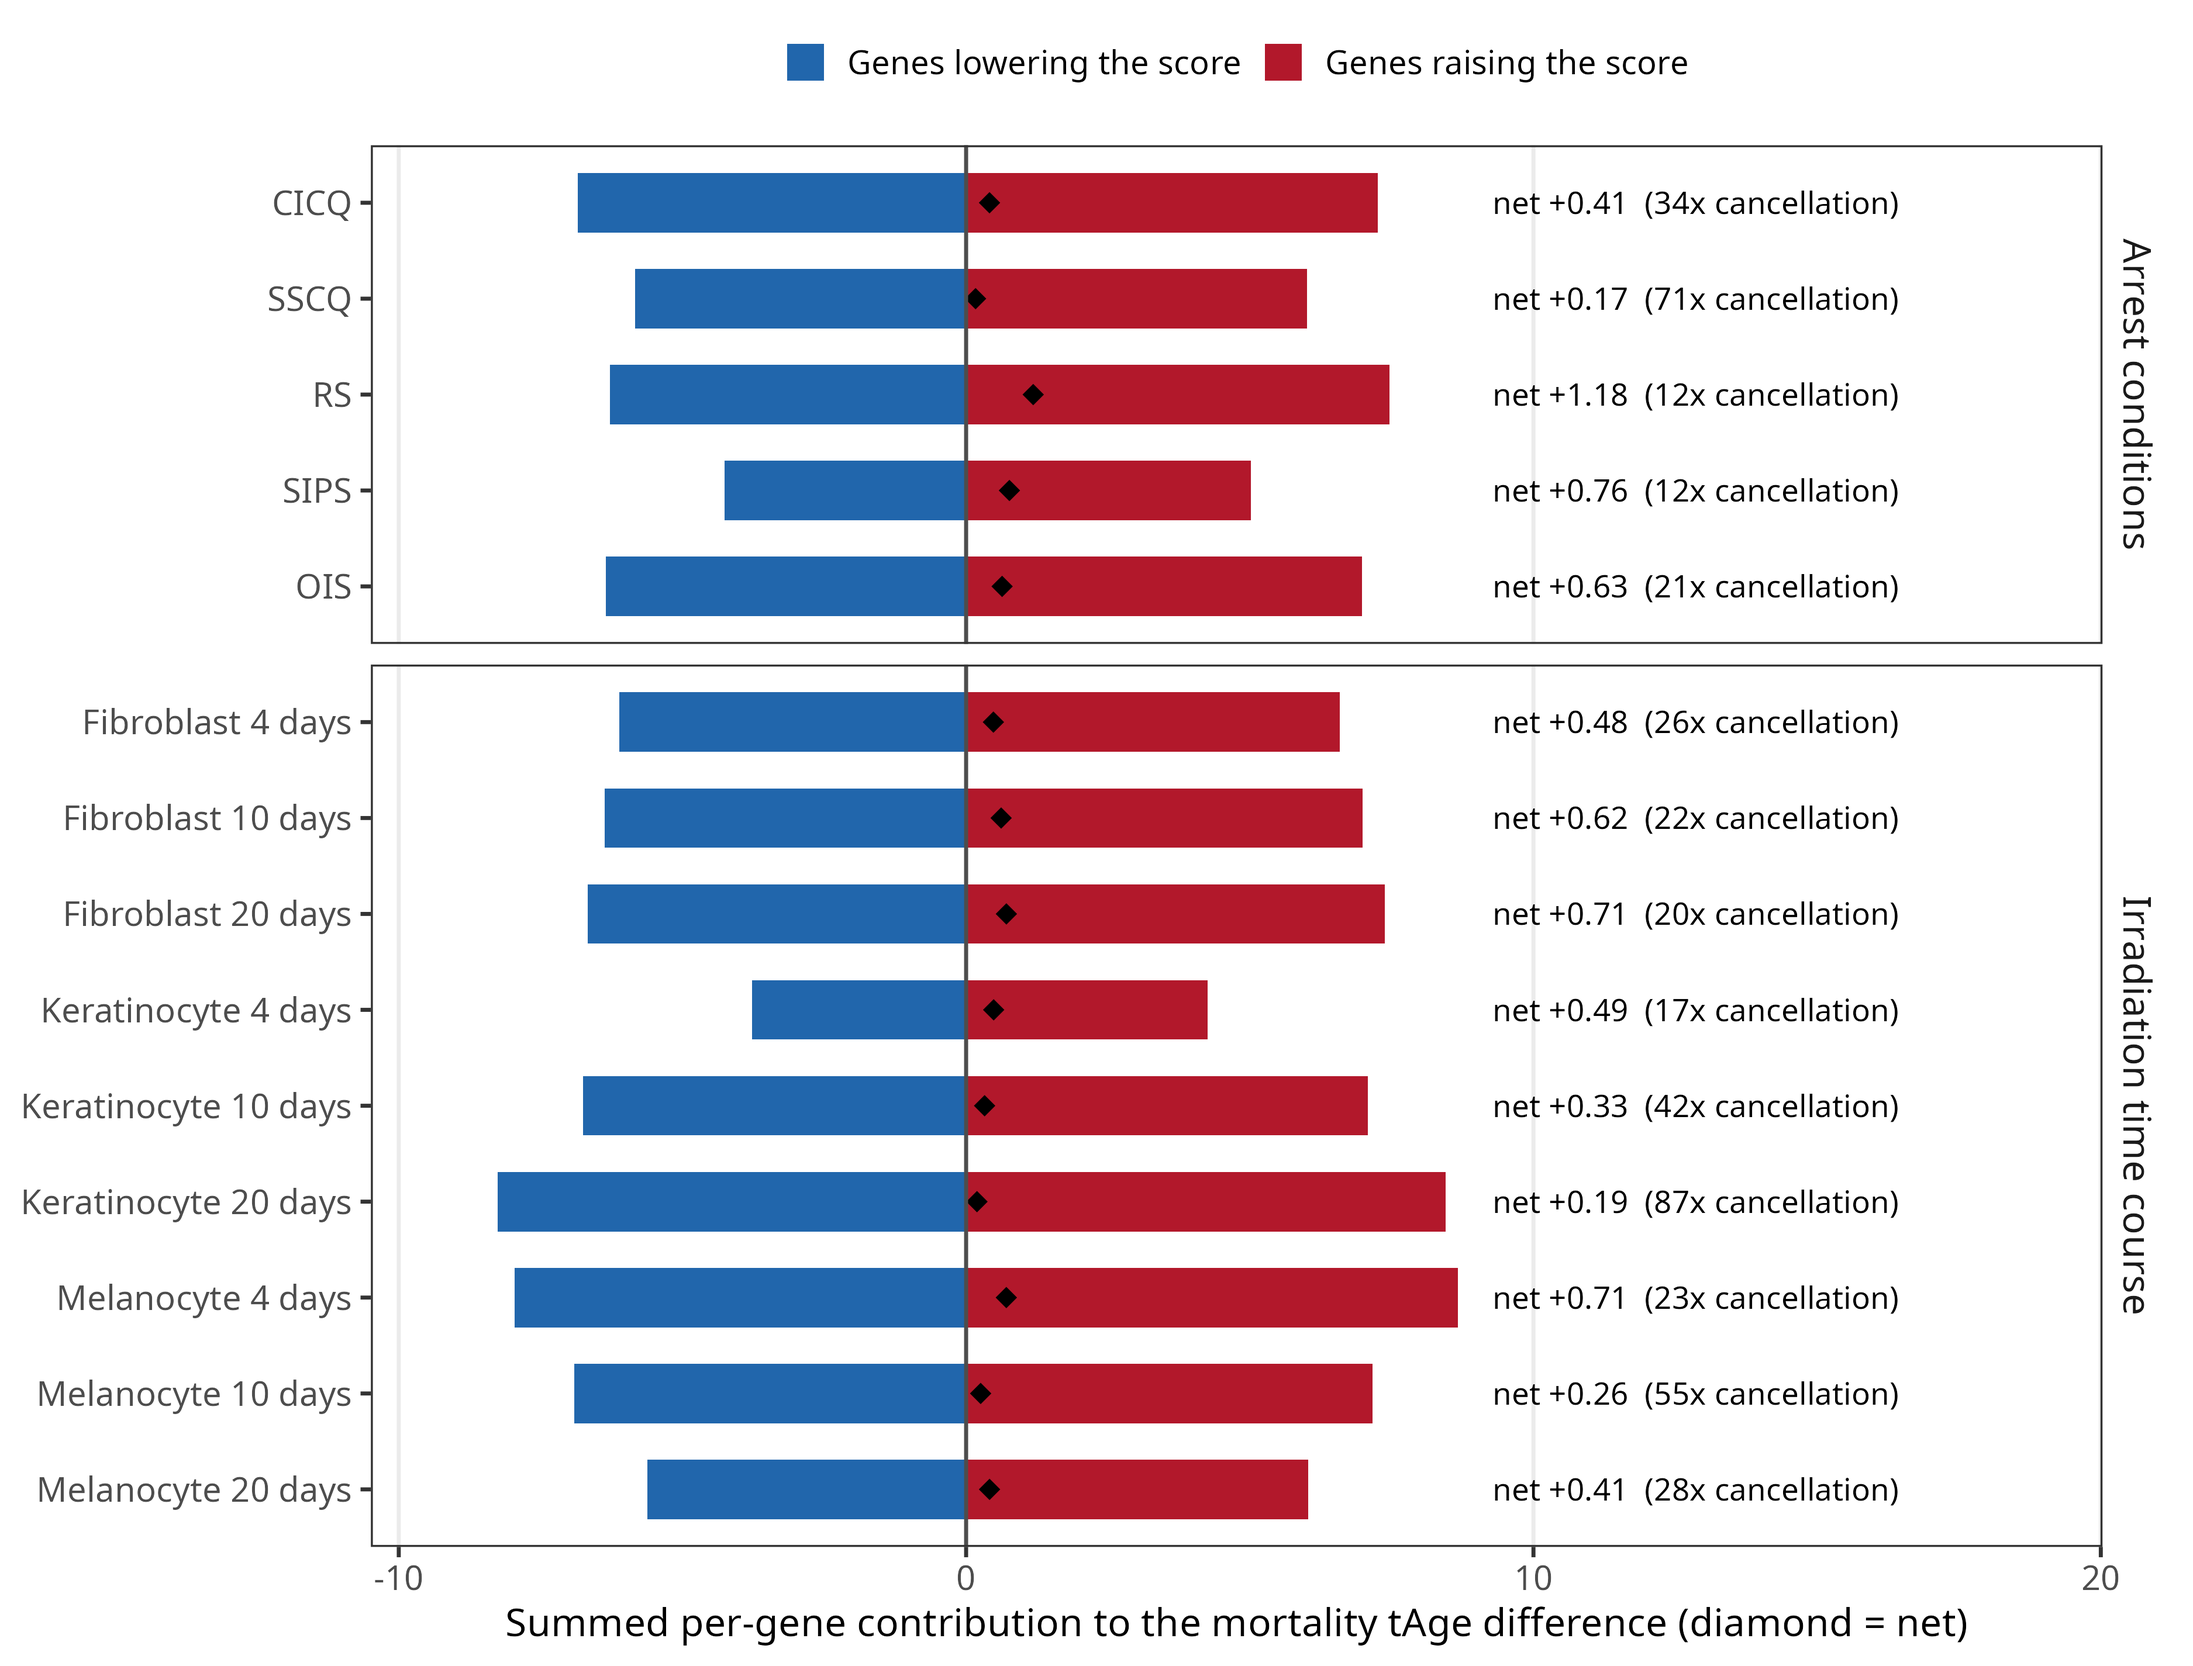
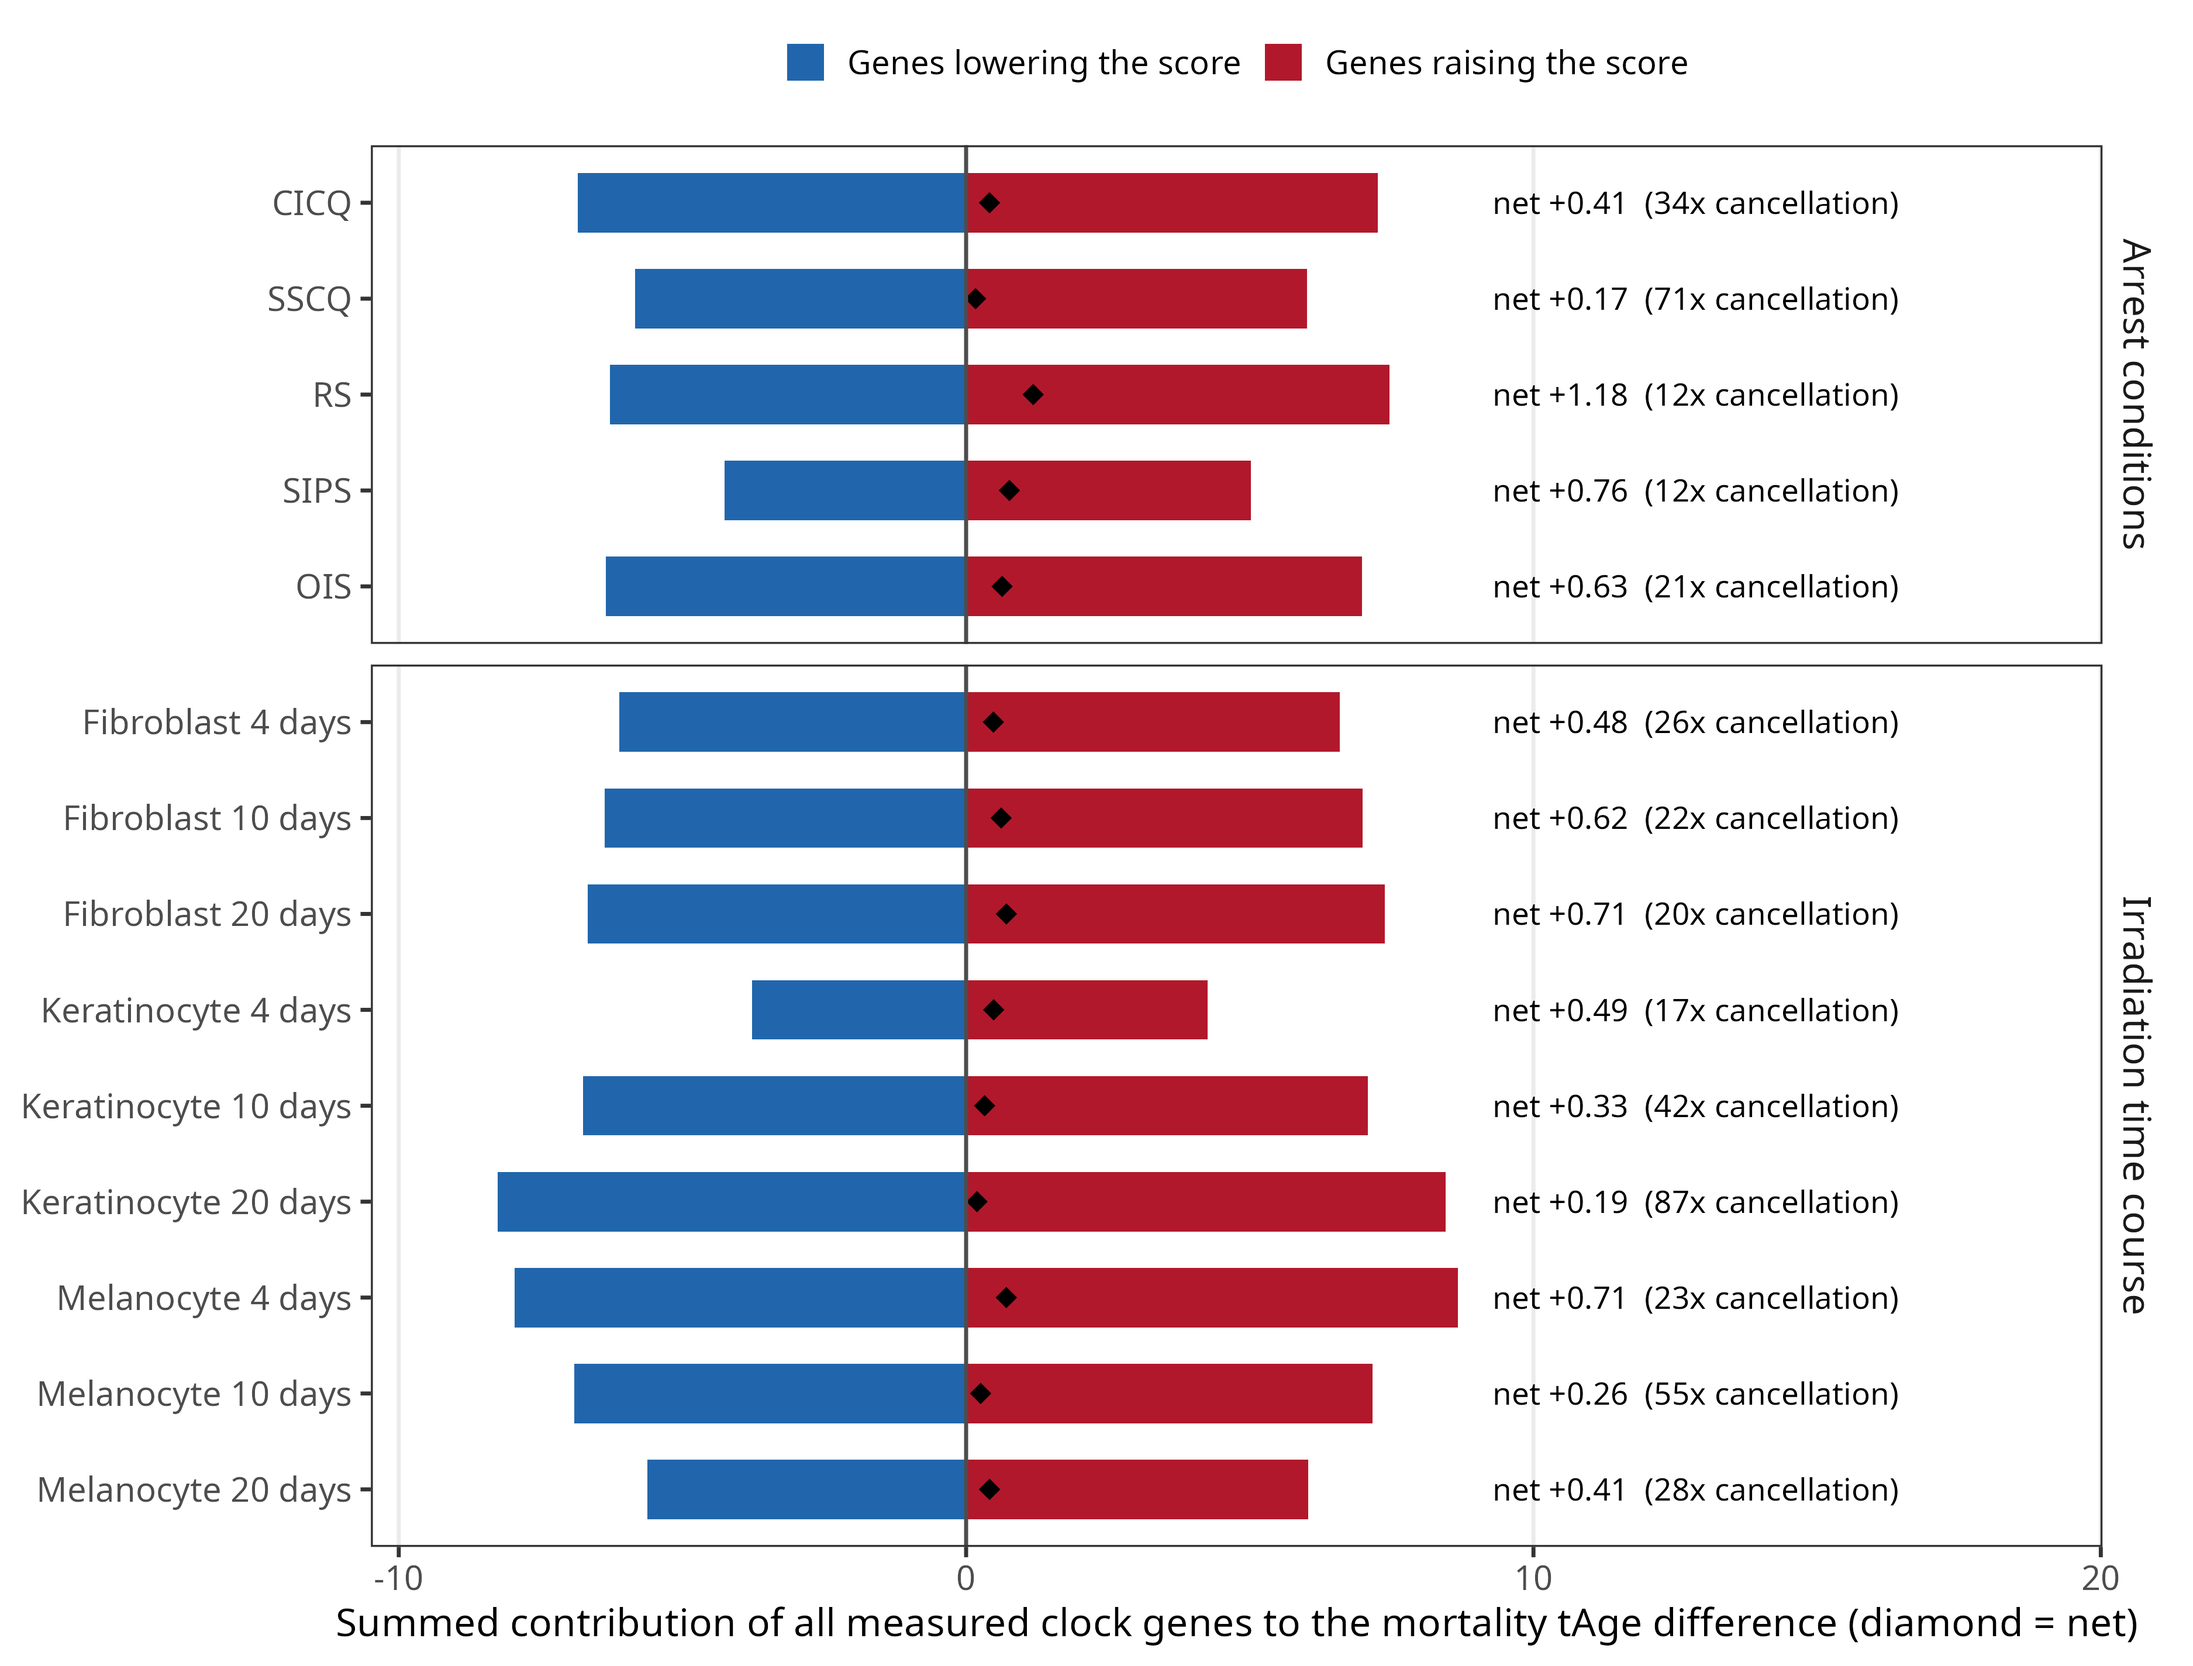
Measure cancellation WITHIN gene sets, which is the level the claim needs
A rephrasing attached the transcriptome-wide cancellation figures to a within-set
claim: "within a set, genes that increase the score and genes that decrease it each
contribute 4.3-8.7 units". Those numbers are the sum over all 9,105 measured clock
genes, giving the condition's total difference, not anything within a set. My own
wording invited it by saying "the net difference" without naming the level.

Within-set cancellation had not been measured. It has now, and it supports the claim
with its own numbers, about fortyfold smaller in absolute terms:

                          within a set (median)   transcriptome-wide
  genes raising the score        +0.087               +4.3 to +8.7
  genes lowering it              -0.076               -4.3 to -8.7
  net                             0.022                0.17 to 1.18
  cancellation                    6.0x (2.2-31.7)      12x to 87x

51.8% of a set's genes move with its own net, and 43 to 49 of the 50 sets exceed
twofold cancellation in every condition, so the effect is general rather than
confined to a few sets.

Folded into exploratory/23 as a second output, withinset_cancellation.csv, so both
levels are reproducible from one script. The figure is relabelled to say it sums over
all measured clock genes, with a header note that the within-set figures are the ones
to quote when discussing what a set's contribution means. 2.1.5.2 and the Discussion
now give both levels explicitly.

Changed region(s): [[0.156, 0.9681, 0.9672, 0.9993]]

diff --git a/bulk_RNA_seq/exploratory/23_decomposition_diagnostics.py b/bulk_RNA_seq/exploratory/23_decomposition_diagnostics.py
@@ -6,10 +6,14 @@ in the text with tests. Covers BOTH arms.
 
 FOUR QUESTIONS, each previously asserted without evidence:
 
-  A  CANCELLATION. Is the net tAge difference a coherent shift, or a residual of
-     opposing gene contributions? Reports the summed positive and negative per-gene
-     contributions, their ratio to the net, the fraction of genes moving in the net
-     direction, and how many genes account for half the net.
+  A  CANCELLATION, at both levels at which contributions are summed. Reports the
+     summed positive and negative per-gene contributions against the net, the
+     fraction of genes moving in the net direction, and how many genes account for
+     half the net - once TRANSCRIPTOME-WIDE (all measured clock genes, giving the
+     condition's total) and once WITHIN EACH GENE SET (giving that set's own
+     contribution). The two are about fortyfold apart in absolute units and must not
+     be conflated: a claim about what a set's contribution means needs the
+     within-set figures, not the transcriptome-wide ones.
 
   B  DOES THE TRANSCRIPTOME ACTUALLY CHANGE? Reports the differentially expressed
      gene count against the tested background, which is the claim that IS supported
@@ -46,7 +50,8 @@ conditions supply the rest of the family exactly as they do in the real analysis
 subsampled and observed counts are on the same footing and comparable with the figures
 quoted in the Results.
 
-Output: rerun_outputs/decomposition_diagnostics.csv
+Output: rerun_outputs/decomposition_diagnostics.csv      (transcriptome-wide)
+        rerun_outputs/withinset_cancellation.csv        (per set x condition)
         rerun_outputs/decomposition_subsampling.csv
 
 NUMBER OF DRAWS. B = 10,000, chosen so the Monte Carlo error is negligible against
@@ -212,6 +217,38 @@ def main(rerun_dir, model_dir, n_draws=10000):
                   f"   effect |AUC-0.5| {r['median_abs_auc_dev']:.3f}"
                   f"   cancellation {r['cancellation_ratio']:>5.0f}x"
                   f"   net {r['net']:+.3f}")
+
+    # A, within-set level: the same cancellation computed inside each gene set
+    wrows = []
+    for cv, lab in CONDS.items():
+        acc = np.zeros(C.shape[1]); w = 0.0
+        for st_ in np.unique(study):
+            ti = np.where((study == st_) & (g == cv))[0]
+            ci = np.where((study == st_) & (g == "Proliferating"))[0]
+            if len(ti) and len(ci):
+                ww = len(ti) * len(ci) / (len(ti) + len(ci))
+                acc += ww * (C[ti].mean(0) - C[ci].mean(0)); w += ww
+        dd = acc / w
+        for name, ix in sets.items():
+            ixm = ix[obs[ix]]
+            if not len(ixm):
+                continue
+            v = dd[ixm]; pos = v[v > 0].sum(); neg = v[v < 0].sum(); net = v.sum()
+            wrows.append(dict(condition=lab, pathway=name, n_measured_genes=len(ixm),
+                              set_net=net, set_sum_positive=pos, set_sum_negative=neg,
+                              cancellation_ratio=(pos - neg) / abs(net) if net else np.nan,
+                              frac_genes_with_set_net=float((np.sign(v) == np.sign(net)).mean())))
+    W = pd.DataFrame(wrows)
+    W.to_csv(f"{rerun_dir}/withinset_cancellation.csv", index=False)
+    print(f"\n== within-set cancellation, {len(W)} set x condition combinations ==")
+    print(f"  median set net {W.set_net.abs().median():.4f} against +{W.set_sum_positive.median():.4f}"
+          f" and {W.set_sum_negative.median():.4f}")
+    print(f"  median cancellation {W.cancellation_ratio.median():.1f}x"
+          f" (10th-90th {W.cancellation_ratio.quantile(.1):.1f}x-{W.cancellation_ratio.quantile(.9):.1f}x)")
+    print(f"  median fraction of a set's genes moving with its own net:"
+          f" {100*W.frac_genes_with_set_net.median():.1f}%")
+    print(f"  sets above 2x, per condition: "
+          f"{dict(W.assign(x=W.cancellation_ratio>2).groupby('condition').x.sum())}")
 
     out = pd.DataFrame(rows)
     # temporal counts on the 450-test family: all nine groups corrected together
